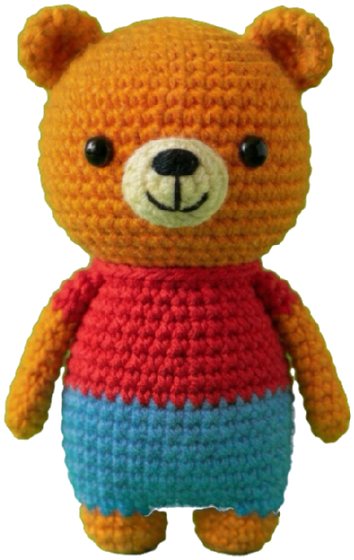
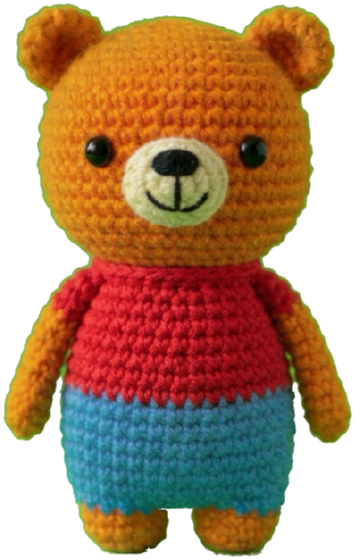
Add six more amigurumi Devs and a better keyer
A bunny, sheep, raccoon, goat and rooster join the bear as DEVS 1 to 6
(the fox is kept as a source photo but not cut out: its sweater is the
backdrop's green). The keyer now works on hue and saturation, so green
yarn survives while the backdrop and its shadows go; removes large
enclosed patches of backdrop such as the gap between legs; keeps only
the doll's connected pieces; and despills edge pixels only.

diff --git a/engine/cli/sprite.js b/engine/cli/sprite.js
@@ -56,8 +56,18 @@ function keyGreen(img) {
   let br = 0, bgg = 0, bb = 0, bn = 0;
   for (let x = 0; x < w; x += 2) for (const y of [0, 1, h - 2, h - 1]) { const i = (y * w + x) * 4; if (gd(i) > bg * .7) { br += px[i]; bgg += px[i + 1]; bb += px[i + 2]; bn++; } }
   const BG = [br / bn, bgg / bn, bb / bn];
-  const hi = bg * .38, lo = bg * .12, AL = new Float32Array(w * h);
-  for (let k = 0; k < w * h; k++) { const g = gd(k * 4); AL[k] = g >= hi ? 0 : g <= lo ? 1 : (hi - g) / (hi - lo); }
+  // Key on hue and saturation. The backdrop is one hue, very saturated, at every brightness (its shadows too);
+  // green yarn is the same family of hue but much less saturated, so it stays.
+  const hsv = (r, g, b) => { const mx = Math.max(r, g, b), mn = Math.min(r, g, b), d = mx - mn; let hh = 0;
+    if (d) hh = mx === r ? ((g - b) / d) % 6 : mx === g ? (b - r) / d + 2 : (r - g) / d + 4;
+    return [hh * 60 < 0 ? hh * 60 + 360 : hh * 60, mx ? d / mx : 0, mx / 255]; };
+  const [HB, SB] = hsv(...BG), AL = new Float32Array(w * h);
+  const ramp = (v, a, b) => v <= a ? 1 : v >= b ? 0 : (b - v) / (b - a);     // 1 at a, 0 at b
+  for (let k = 0; k < w * h; k++) { const i = k * 4, [hh, ss, vv] = hsv(px[i], px[i + 1], px[i + 2]);
+    let bgness;
+    if (vv < .16) bgness = gd(i) > 6 ? 1 : 0;                                   // too dark for hue: backdrop if still greenish
+    else bgness = ramp(Math.abs(hh - HB), 14, 30) * (1 - ramp(ss, SB * .8, SB * .93));
+    AL[k] = 1 - bgness; }
   // Only backdrop connected to the edge of the photo is removed: flood in from the border through
   // anything not fully opaque. Green light bouncing onto the doll (a cream muzzle, say) is left alone.
   const seen = new Uint8Array(w * h), stack = [];
@@ -65,14 +75,33 @@ function keyGreen(img) {
   for (let y = 0; y < h; y++) stack.push(y * w, y * w + w - 1);
   while (stack.length) { const k = stack.pop(); if (seen[k] || AL[k] >= .995) continue; seen[k] = 1;
     const x = k % w; if (x > 0) stack.push(k - 1); if (x < w - 1) stack.push(k + 1); if (k >= w) stack.push(k - w); if (k < w * (h - 1)) stack.push(k + w); }
+  // Backdrop enclosed by the doll (the gap between two legs) is not reached from the edge. A large enough
+  // patch of pure backdrop is removed anyway; small ones are more likely green light on the yarn.
+  const comp = new Uint8Array(w * h);
+  for (let k0 = 0; k0 < w * h; k0++) { if (seen[k0] || comp[k0] || AL[k0] > .05) continue;
+    const cells = [], st = [k0]; comp[k0] = 1;
+    while (st.length) { const k = st.pop(); cells.push(k); const x = k % w;
+      for (const n of [x > 0 ? k - 1 : -1, x < w - 1 ? k + 1 : -1, k - w, k + w]) if (n >= 0 && n < w * h && !comp[n] && !seen[n] && AL[n] <= .05) { comp[n] = 1; st.push(n); } }
+    if (cells.length > w * h / 2000) for (const k of cells) { seen[k] = 1;   // grow it through its soft edge too
+      const x = k % w; for (const n of [x > 0 ? k - 1 : -1, x < w - 1 ? k + 1 : -1, k - w, k + w]) if (n >= 0 && n < w * h && AL[n] < .995) seen[n] = 1; } }
   for (let k = 0; k < w * h; k++) if (!seen[k]) AL[k] = 1;
   for (let i = 0; i < px.length; i += 4) {
     const a = AL[i >> 2];
     if (a > 0 && a < 1) for (let c = 0; c < 3; c++) px[i + c] = Math.max(0, Math.min(255, (px[i + c] - (1 - a) * BG[c]) / a));   // unmix the backdrop from edge pixels
     px[i + 3] = Math.round(px[i + 3] * a * a);                                     // a squared: the edge pulls in a little
-    const g2 = px[i + 1] - Math.max(px[i], px[i + 2]);
-    if (g2 > 4) px[i + 1] = Math.max(px[i], px[i + 2]) + 4;                         // despill what is left
+    if (a < 1) { const g2 = px[i + 1] - Math.max(px[i], px[i + 2]); if (g2 > 4) px[i + 1] = Math.max(px[i], px[i + 2]) + 4; }   // despill edges only
   }
+  // keep the doll: the largest connected piece, and any other piece at least a tenth its size; drop specks
+  { const lab = new Int32Array(w * h), sizes = [0]; let n = 0;
+    for (let k0 = 0; k0 < w * h; k0++) { if (lab[k0] || px[k0 * 4 + 3] < 64) continue; n++; let c = 0; const st = [k0]; lab[k0] = n;
+      while (st.length) { const k = st.pop(); c++; const x = k % w;
+        for (const m of [x > 0 ? k - 1 : -1, x < w - 1 ? k + 1 : -1, k - w, k + w]) if (m >= 0 && m < w * h && !lab[m] && px[m * 4 + 3] >= 64) { lab[m] = n; st.push(m); } }
+      sizes.push(c); }
+    const big = Math.max(...sizes);
+    for (let k = 0; k < w * h; k++) { const l = lab[k]; if (l && sizes[l] < big / 10) px[k * 4 + 3] = 0;
+      if (!l && px[k * 4 + 3]) { const x = k % w; let near = 0;    // faint edge pixels stay only beside a kept piece
+        for (const m of [x > 0 ? k - 1 : -1, x < w - 1 ? k + 1 : -1, k - w, k + w]) if (m >= 0 && m < w * h && lab[m] && sizes[lab[m]] >= big / 10) near = 1;
+        if (!near) px[k * 4 + 3] = 0; } } }
   // drop specks: any opaque pixel with fewer than 3 opaque neighbours
   const A = Uint8Array.from({ length: w * h }, (_, k) => px[k * 4 + 3]);
   for (let y = 1; y < h - 1; y++) for (let x = 1; x < w - 1; x++) {

diff --git a/docs/agent-request/index.html b/docs/agent-request/index.html
@@ -396,7 +396,7 @@ function useCast(name){CAST=CASTS[name]?name:'paper';const k={...ROLES,...CASTS[
   dev=k.dev;face=k.face;agent=k.agent;metric=k.metric;repo=k.repo;cloud=k.cloud;photo=k.photo;rocket=k.rocket;book=k.book}
 
 
-const SPRITES={"amigurumi":{"dev-0-happy":{"w":354,"h":560}}},SPRITE_BASE="../sprites/",SPRITE_DATA={};
+const SPRITES={"amigurumi":{"dev-0-happy":{"w":355,"h":560},"dev-1-happy":{"w":270,"h":560},"dev-2-happy":{"w":399,"h":560},"dev-3-happy":{"w":343,"h":560},"dev-4-happy":{"w":419,"h":560},"dev-6-happy":{"w":280,"h":560}}},SPRITE_BASE="../sprites/",SPRITE_DATA={};
 
 /* ---------- the amigurumi cast: photographs of crocheted dolls ----------
    An image cast. The pictures live in engine/runtime/casts/amigurumi/, made from green-screen photos with

diff --git a/docs/dev-agent/index.html b/docs/dev-agent/index.html
@@ -396,7 +396,7 @@ function useCast(name){CAST=CASTS[name]?name:'paper';const k={...ROLES,...CASTS[
   dev=k.dev;face=k.face;agent=k.agent;metric=k.metric;repo=k.repo;cloud=k.cloud;photo=k.photo;rocket=k.rocket;book=k.book}
 
 
-const SPRITES={"amigurumi":{"dev-0-happy":{"w":354,"h":560}}},SPRITE_BASE="../sprites/",SPRITE_DATA={};
+const SPRITES={"amigurumi":{"dev-0-happy":{"w":355,"h":560},"dev-1-happy":{"w":270,"h":560},"dev-2-happy":{"w":399,"h":560},"dev-3-happy":{"w":343,"h":560},"dev-4-happy":{"w":419,"h":560},"dev-6-happy":{"w":280,"h":560}}},SPRITE_BASE="../sprites/",SPRITE_DATA={};
 
 /* ---------- the amigurumi cast: photographs of crocheted dolls ----------
    An image cast. The pictures live in engine/runtime/casts/amigurumi/, made from green-screen photos with

diff --git a/docs/dev-metric/index.html b/docs/dev-metric/index.html
@@ -396,7 +396,7 @@ function useCast(name){CAST=CASTS[name]?name:'paper';const k={...ROLES,...CASTS[
   dev=k.dev;face=k.face;agent=k.agent;metric=k.metric;repo=k.repo;cloud=k.cloud;photo=k.photo;rocket=k.rocket;book=k.book}
 
 
-const SPRITES={"amigurumi":{"dev-0-happy":{"w":354,"h":560}}},SPRITE_BASE="../sprites/",SPRITE_DATA={};
+const SPRITES={"amigurumi":{"dev-0-happy":{"w":355,"h":560},"dev-1-happy":{"w":270,"h":560},"dev-2-happy":{"w":399,"h":560},"dev-3-happy":{"w":343,"h":560},"dev-4-happy":{"w":419,"h":560},"dev-6-happy":{"w":280,"h":560}}},SPRITE_BASE="../sprites/",SPRITE_DATA={};
 
 /* ---------- the amigurumi cast: photographs of crocheted dolls ----------
    An image cast. The pictures live in engine/runtime/casts/amigurumi/, made from green-screen photos with

diff --git a/docs/dev-repo/index.html b/docs/dev-repo/index.html
@@ -396,7 +396,7 @@ function useCast(name){CAST=CASTS[name]?name:'paper';const k={...ROLES,...CASTS[
   dev=k.dev;face=k.face;agent=k.agent;metric=k.metric;repo=k.repo;cloud=k.cloud;photo=k.photo;rocket=k.rocket;book=k.book}
 
 
-const SPRITES={"amigurumi":{"dev-0-happy":{"w":354,"h":560}}},SPRITE_BASE="../sprites/",SPRITE_DATA={};
+const SPRITES={"amigurumi":{"dev-0-happy":{"w":355,"h":560},"dev-1-happy":{"w":270,"h":560},"dev-2-happy":{"w":399,"h":560},"dev-3-happy":{"w":343,"h":560},"dev-4-happy":{"w":419,"h":560},"dev-6-happy":{"w":280,"h":560}}},SPRITE_BASE="../sprites/",SPRITE_DATA={};
 
 /* ---------- the amigurumi cast: photographs of crocheted dolls ----------
    An image cast. The pictures live in engine/runtime/casts/amigurumi/, made from green-screen photos with

diff --git a/docs/make-book/index.html b/docs/make-book/index.html
@@ -396,7 +396,7 @@ function useCast(name){CAST=CASTS[name]?name:'paper';const k={...ROLES,...CASTS[
   dev=k.dev;face=k.face;agent=k.agent;metric=k.metric;repo=k.repo;cloud=k.cloud;photo=k.photo;rocket=k.rocket;book=k.book}
 
 
-const SPRITES={"amigurumi":{"dev-0-happy":{"w":354,"h":560}}},SPRITE_BASE="../sprites/",SPRITE_DATA={};
+const SPRITES={"amigurumi":{"dev-0-happy":{"w":355,"h":560},"dev-1-happy":{"w":270,"h":560},"dev-2-happy":{"w":399,"h":560},"dev-3-happy":{"w":343,"h":560},"dev-4-happy":{"w":419,"h":560},"dev-6-happy":{"w":280,"h":560}}},SPRITE_BASE="../sprites/",SPRITE_DATA={};
 
 /* ---------- the amigurumi cast: photographs of crocheted dolls ----------
    An image cast. The pictures live in engine/runtime/casts/amigurumi/, made from green-screen photos with

diff --git a/docs/skill-repo/index.html b/docs/skill-repo/index.html
@@ -396,7 +396,7 @@ function useCast(name){CAST=CASTS[name]?name:'paper';const k={...ROLES,...CASTS[
   dev=k.dev;face=k.face;agent=k.agent;metric=k.metric;repo=k.repo;cloud=k.cloud;photo=k.photo;rocket=k.rocket;book=k.book}
 
 
-const SPRITES={"amigurumi":{"dev-0-happy":{"w":354,"h":560}}},SPRITE_BASE="../sprites/",SPRITE_DATA={};
+const SPRITES={"amigurumi":{"dev-0-happy":{"w":355,"h":560},"dev-1-happy":{"w":270,"h":560},"dev-2-happy":{"w":399,"h":560},"dev-3-happy":{"w":343,"h":560},"dev-4-happy":{"w":419,"h":560},"dev-6-happy":{"w":280,"h":560}}},SPRITE_BASE="../sprites/",SPRITE_DATA={};
 
 /* ---------- the amigurumi cast: photographs of crocheted dolls ----------
    An image cast. The pictures live in engine/runtime/casts/amigurumi/, made from green-screen photos with

diff --git a/engine/docs/CAST.md b/engine/docs/CAST.md
@@ -124,8 +124,9 @@ A cast can be photographs instead of drawings. Shoot or generate each character 
 node engine/cli/picture-book.js sprite amigurumi dev-0-happy art/amigurumi/dev-0-happy.jpg
 ```
 
-That removes the green (only green connected to the edge, so green light on the doll stays), takes the green out of edge pixels, trims, scales to 560px tall, and writes `engine/runtime/casts/amigurumi/dev-0-happy.png` plus its size in `sprites.json`. Keep the original in `art/<cast>/`.
+That removes the backdrop by hue and saturation (the backdrop is one saturated hue at every brightness; green yarn is duller, so it stays), only where it connects to the edge or forms a large enclosed patch (the gap between two legs), takes the green out of edge pixels, trims, scales to 560px tall, and writes `engine/runtime/casts/amigurumi/dev-0-happy.png` plus its size in `sprites.json`. Keep the original in `art/<cast>/`.
 
+- Nothing the character wears can be the backdrop's green: it is keyed out with the backdrop. Reshoot in another colour.
 - Names are `<who>-<mood>[-up]`: `who` is `dev-<n>` (for `DEVS[n]`), `agent`, `repo` or `metric`; `mood` is `happy`, `flat`, `worry`, `wow` or `sleep`; `-up` has an arm raised.
 - `sprite(cast, names, x, y, height, o)` in `cast.js` draws the first name that exists, feet on `(x, y)`, with a soft shadow. A cast file decides the names and falls back to paper for anything without a picture yet.
 - Site builds copy the pictures to `<site>/sprites/`; Artifact builds embed them; the editor serves them.
